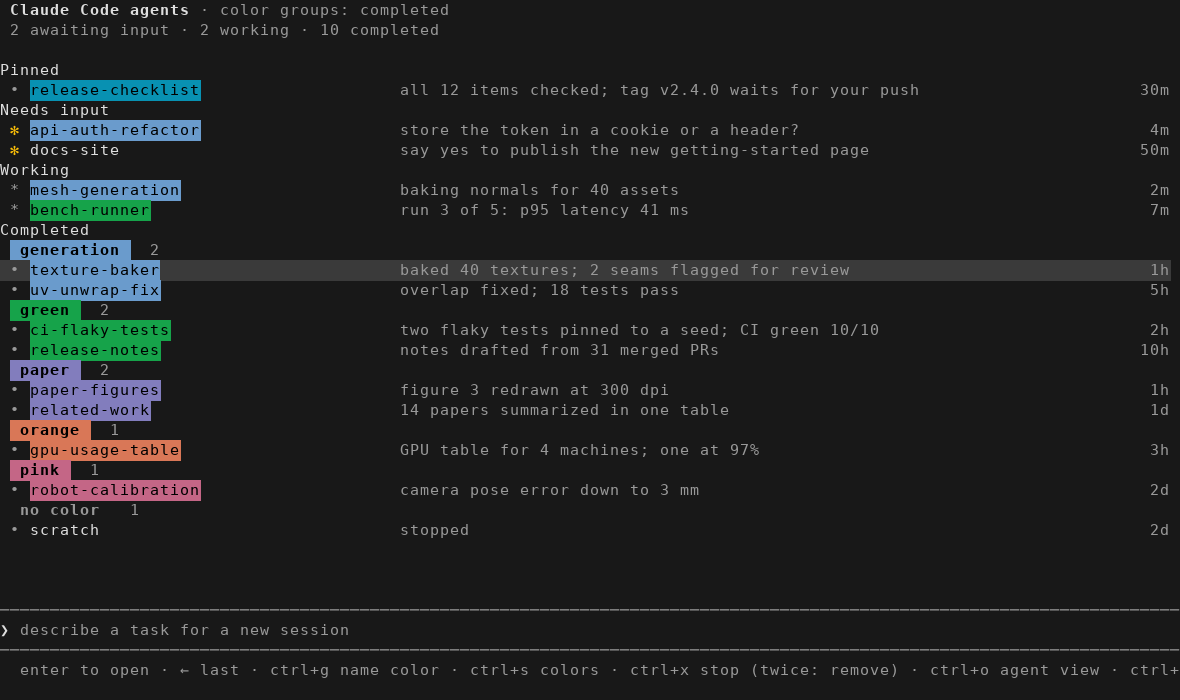
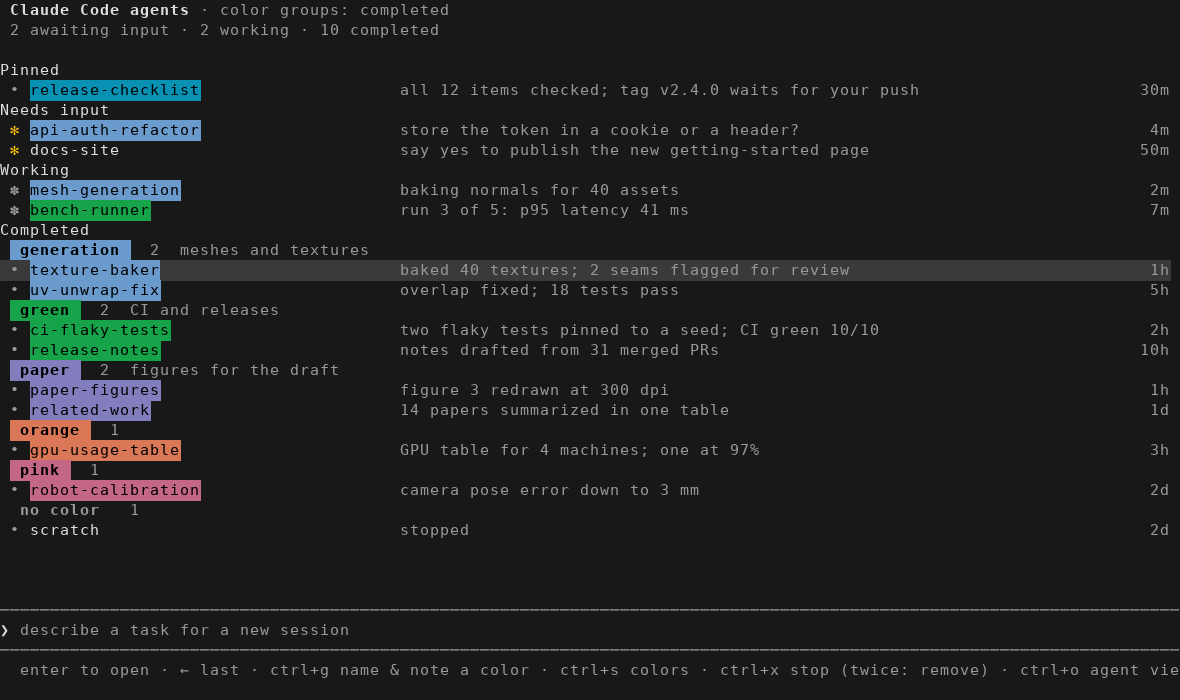
color-groups: each color heading carries a short note beside it, set with Ctrl+G after the name; saved as {color: {name, note}} (a name-only file still reads)

diff --git a/plugins/color-groups/test_claude_groups.py b/plugins/color-groups/test_claude_groups.py
@@ -50,7 +50,7 @@ def lines(rows):
 
 class Grouping(unittest.TestCase):
     def test_completed_is_split_by_color_in_color_order_with_names(self):
-        rows = lines(cg.build_rows(SESSIONS, {'blue': 'generation'}, 'completed'))
+        rows = lines(cg.build_rows(SESSIONS, {'blue': {'name': 'generation'}}, 'completed'))
         self.assertEqual(rows, [
             ('section', 'Pinned 1'), ('session', 'top'),
             ('section', 'Needs input 1'), ('session', 'needs'),
@@ -84,6 +84,47 @@ class Grouping(unittest.TestCase):
         self.assertNotIn('group', [kind for kind, _ in rows])
         self.assertEqual([item for kind, item in rows if kind == 'section'],
                          ['Pinned 1', 'Needs input 1', 'Working 1', 'Completed 4'])
+
+    def test_a_group_carries_its_note_and_a_note_alone_keeps_the_color_name(self):
+        labels = {'blue': {'name': 'generation', 'note': 'meshes and textures'},
+                  'red': {'note': 'urgent'}}
+        groups = {r['color']: r for r in cg.build_rows(SESSIONS, labels, 'completed') if r['kind'] == 'group'}
+        self.assertEqual((groups['blue']['label'], groups['blue']['note']), ('generation', 'meshes and textures'))
+        self.assertEqual((groups['red']['label'], groups['red']['note']), ('red', 'urgent'))
+        self.assertEqual(groups['']['note'], '')
+
+
+class Labels(unittest.TestCase):
+    def read(self, text):
+        with tempfile.TemporaryDirectory() as tmp:
+            saved, cg.NAMES = cg.NAMES, Path(tmp) / 'claude-groups.json'
+            try:
+                if text is not None:
+                    cg.NAMES.write_text(text)
+                return cg.read_labels()
+            finally:
+                cg.NAMES = saved
+
+    def test_names_and_notes_are_read_and_a_first_version_file_still_works(self):
+        self.assertEqual(self.read('{"blue": {"name": "generation", "note": "meshes"}}'),
+                         {'blue': {'name': 'generation', 'note': 'meshes'}})
+        self.assertEqual(self.read('{"blue": "generation", "red": {"note": "urgent"}}'),
+                         {'blue': {'name': 'generation'}, 'red': {'note': 'urgent'}})
+
+    def test_a_missing_or_broken_file_is_no_labels(self):
+        self.assertEqual(self.read(None), {})
+        self.assertEqual(self.read('{broken'), {})
+        self.assertEqual(self.read('["blue"]'), {})
+
+    def test_labels_written_are_read_back_whole(self):
+        with tempfile.TemporaryDirectory() as tmp:
+            saved, cg.NAMES = cg.NAMES, Path(tmp) / 'sub' / 'claude-groups.json'
+            try:
+                labels = {'blue': {'name': '生成', 'note': 'meshes · textures'}}
+                cg.write_labels(labels)
+                self.assertEqual(cg.read_labels(), labels)
+            finally:
+                cg.NAMES = saved
 
 
 class Colors(unittest.TestCase):
@@ -159,6 +200,31 @@ class Clicks(unittest.TestCase):
         drawn = [hits[line] for line in sorted(hits)]
         self.assertIn(('heading', 'color:blue'), drawn)
         self.assertEqual(drawn.index(('session', 'mesh')), drawn.index(('heading', 'color:blue')) + 1)
+
+
+class Notes(unittest.TestCase):
+    def heading(self, width, labels):
+        cg.TRUECOLOR = True
+        rows = cg.build_rows(SESSIONS, labels, 'completed')
+        screen, _, hits = cg.render(width, 40, rows, SESSIONS, 'mesh', 0, 'completed', '', '', '', 0)
+        line = next(line for line, hit in hits.items() if hit == ('heading', 'color:blue'))
+        drawn = screen.split(f'\x1b[{line};1H')[1].split('\x1b[K')[0]
+        return re.sub(r'\x1b\[[0-9;]*m', '', drawn)
+
+    def test_the_note_follows_the_heading_and_its_count(self):
+        text = self.heading(120, {'blue': {'name': 'generation', 'note': 'meshes and textures'}})
+        self.assertEqual(text, '  generation   2  meshes and textures')
+
+    def test_a_long_note_is_cut_to_the_width(self):
+        text = self.heading(40, {'blue': {'name': 'generation', 'note': 'meshes ' * 20}})
+        self.assertLessEqual(cg.cells(text), 40)
+        self.assertTrue(text.endswith('…'))
+
+    def test_the_prompt_shows_the_question(self):
+        cg.TRUECOLOR = True
+        screen, _, _ = cg.render(120, 40, [], SESSIONS, None, 0, 'completed', 'meshes',
+                                 'note for generation (empty: none): ', '', 0)
+        self.assertIn('note for generation (empty: none): ', re.sub(r'\x1b\[[0-9;]*m', '', screen))
 
 
 class Loading(unittest.TestCase):

diff --git a/plugins/color-groups/README.md b/plugins/color-groups/README.md
@@ -3,7 +3,8 @@
 `claude-groups` is a terminal panel in place of Claude Code's agent view (`claude agents`),
 drawn the way the agent view draws: Pinned, Needs input, Working and Completed, each
 session's name as a chip in its `/color`, and **Completed grouped by color**, each color
-renamable to a project name. Enter opens a session; **← in that session comes back here**.
+renamable to a project name with a **short note** beside it. Enter opens a session; **← in
+that session comes back here**.
 
 ![panel](panel.png)
 
@@ -24,14 +25,17 @@ cgs                                                                # or: cgs <se
 | type, then Enter | start a new background session with that task (`claude --bg`), as the agent view's prompt does |
 | ← in a session | come back here, the session focused |
 | ← here | open the last session again |
-| Ctrl+G | name the focused session's color (empty: its color name back) |
+| Ctrl+G | name the focused session's color, then give it a short note shown beside its heading (each prompt starts from what is saved; empty clears it; Esc stops) |
 | Ctrl+S | where colors group: Completed → every section → off |
 | Ctrl+X | as in the agent view: stop the focused session if it is running (`claude stop`); a second Ctrl+X within 2 s removes it from the list (`claude rm`: its worktree is deleted only when that is safe, its conversation stays in `claude --resume`) |
 | Ctrl+O | the built-in agent view |
 | Esc | clear the prompt; Ctrl+C quits |
 | Mouse | as in the agent view: hover focuses a session, a click opens it, a click on a heading folds or unfolds it, the wheel moves |
 
-Names are kept in `~/.config/claude-groups.json`. A session changes only when you stop it.
+Names and notes are kept in `~/.config/claude-groups.json` as
+`{"blue": {"name": "generation", "note": "meshes and textures"}}`; you can edit the file by
+hand too (a name-only file of the first version, `{"blue": "generation"}`, still reads).
+A session changes only when you stop or remove it.
 
 ## Colors
 

diff --git a/README.md b/README.md
@@ -12,7 +12,7 @@ and rules from `plugins/`.
 | [**reproduce**](plugins/reproduce/README.md) | Paste a GitHub repo or project page: it clones, builds a short-named env, picks the biggest model that fits the *free* GPU memory, runs ≥3 verified demos, and publishes a flow artifact where the real examples ride through the flowchart |
 | [**paper-explain**](plugins/paper-explain/README.md) | Paste a paper link: it files the PDF into your project library, crops the authors' figures, and writes a visual explainer — the problem shown on one running example, then big picture → stages → details — published as a page of one shared artifact, with the library synced to its GitHub repo |
 | [**transcribe-meeting**](plugins/transcribe-meeting/README.md) | Give it a recording path: it transcribes on your GPU in the original language (code-switching kept), reviews loops and missed quiet speech, and writes a summary where every point opens its source passage and plays that clip at its original HH:MM:SS — all local |
-| [**color-groups**](plugins/color-groups/README.md) | `claude-groups`, a terminal panel in place of the agent view: your background sessions with Completed grouped by `/color`, each color renamable to a project name; Enter opens a session and ← in it comes back to the panel. A script, not a plugin: link it as `cgs` (its README) |
+| [**color-groups**](plugins/color-groups/README.md) | `claude-groups`, a terminal panel in place of the agent view: your background sessions with Completed grouped by `/color`, each color renamable to a project name with a short note; Enter opens a session and ← in it comes back to the panel. A script, not a plugin: link it as `cgs` (its README) |
 
 ## Install
 
